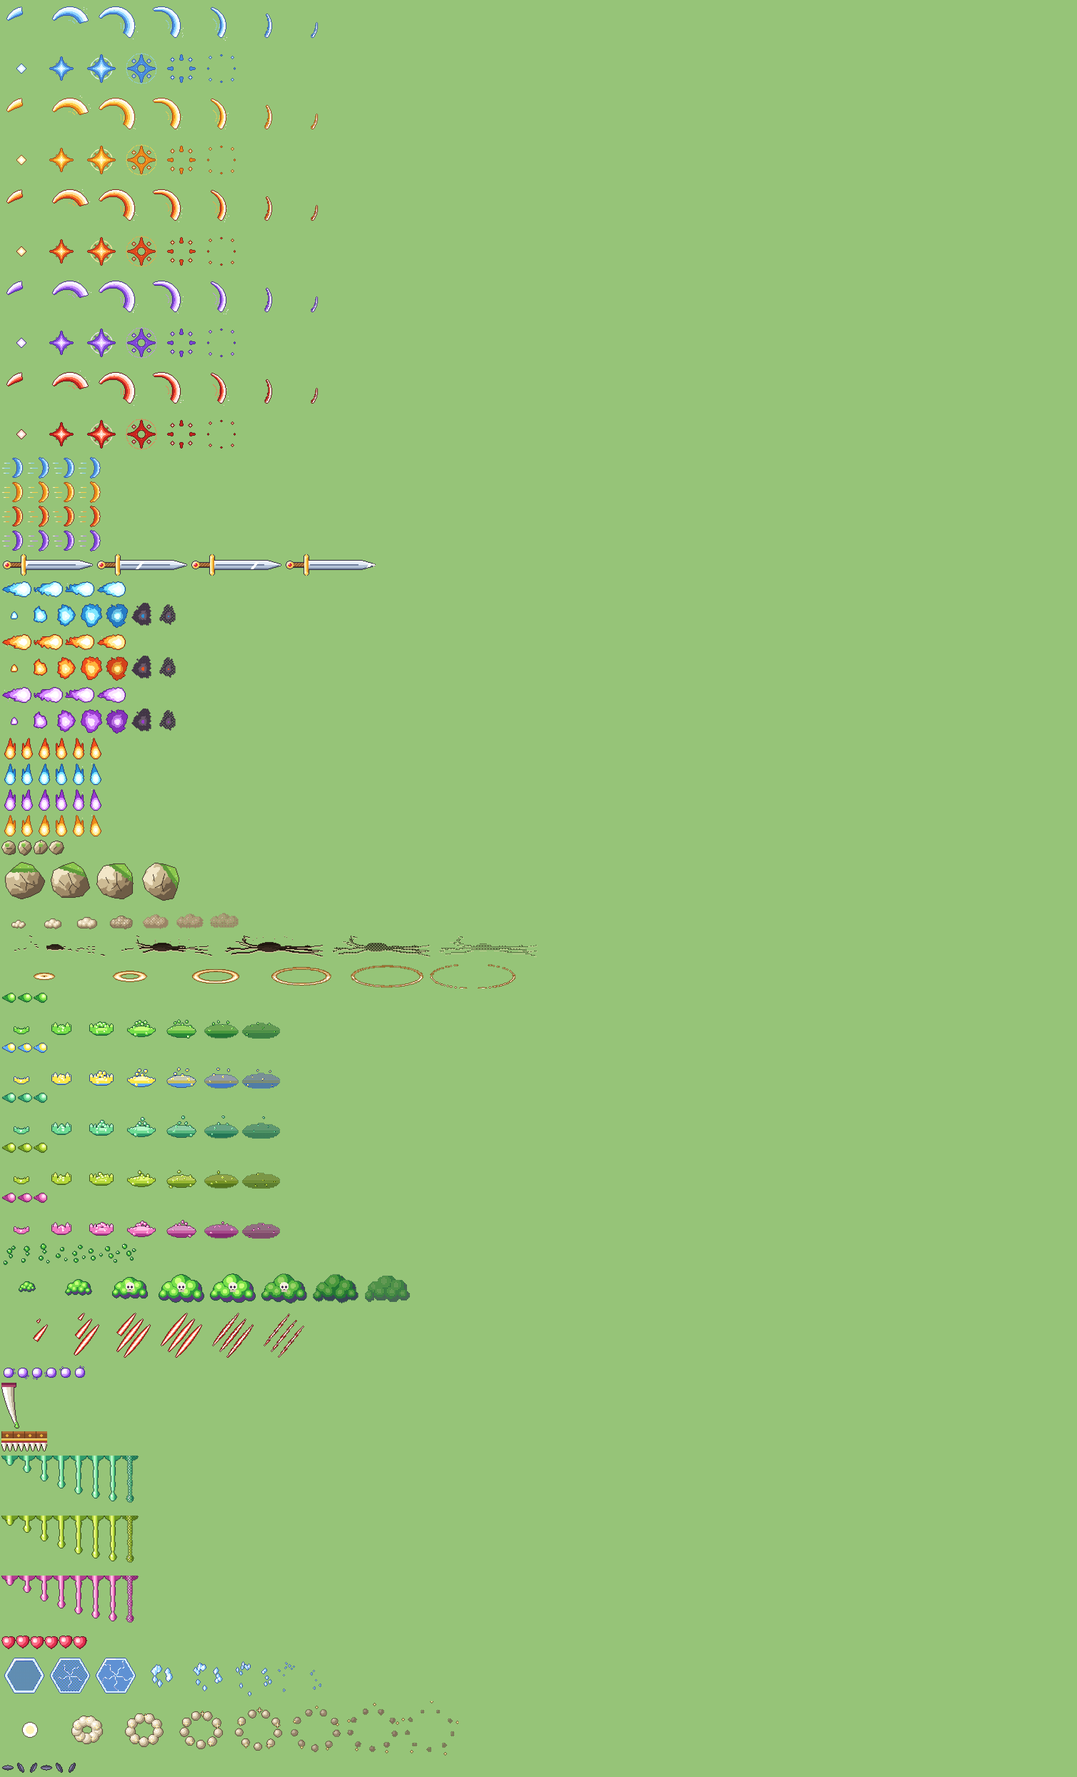
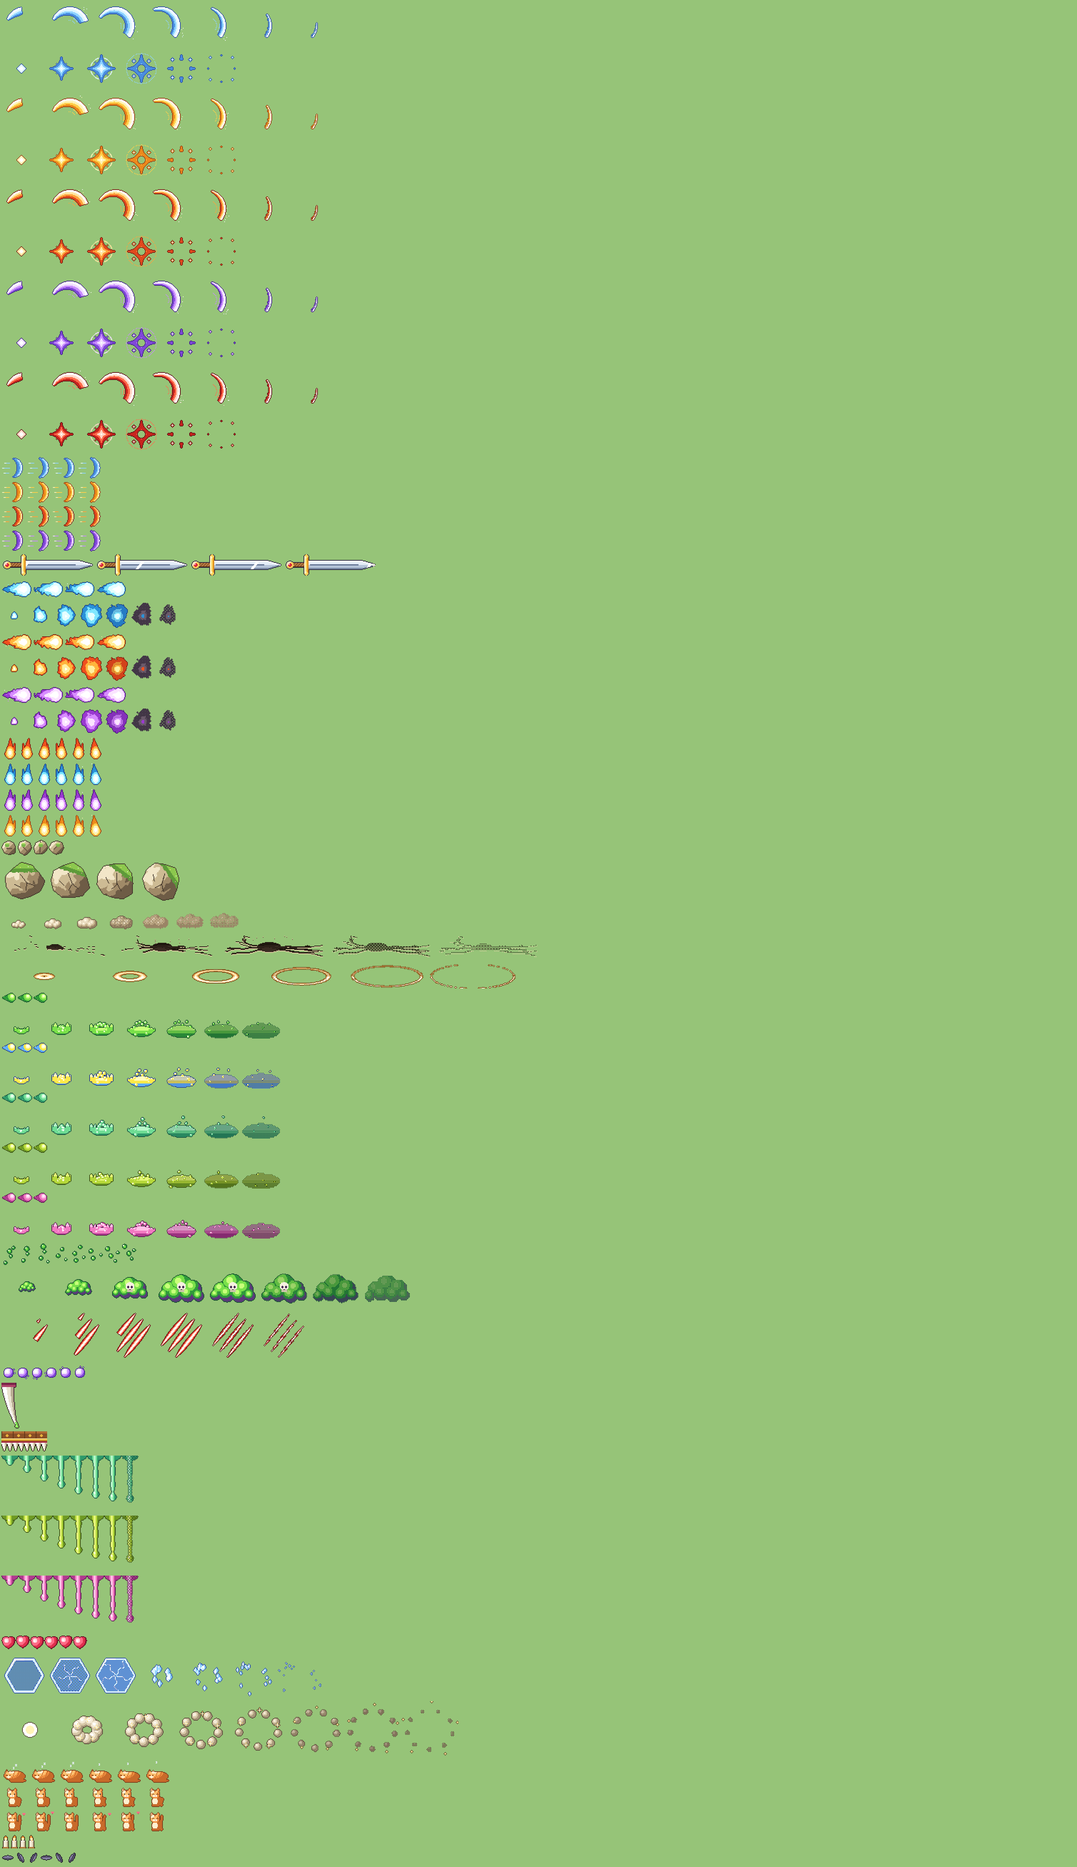
Biblioteca: gato que dorme, acorda e fica feliz com os acertos, e velas da sessão
Claude-Session: https://claude.ai/code/session_01Wy17hPtRMz9sgRLvNPhYVz

Changed region(s): [[0.0, 0.0, 0.4052, 0.9968], [0.2805, 0.2803, 0.3428, 0.3426]]

diff --git a/src/flashcards/efeitos/vfxIndice.ts b/src/flashcards/efeitos/vfxIndice.ts
@@ -3,4 +3,4 @@
  * Gerado por scripts/sprites/vfx.py: não edite à mão.
  */
 export interface MetaVfx { w: number; h: number; n: number; ms: number; ancora: [number, number]; loop: boolean }
-export const VFX: Record<string, MetaVfx> = {"corte-azul": {"w": 64, "h": 64, "n": 7, "ms": 45, "ancora": [32, 32], "loop": false}, "faisca-azul": {"w": 56, "h": 56, "n": 6, "ms": 50, "ancora": [28, 28], "loop": false}, "corte-ouro": {"w": 64, "h": 64, "n": 7, "ms": 45, "ancora": [32, 32], "loop": false}, "faisca-ouro": {"w": 56, "h": 56, "n": 6, "ms": 50, "ancora": [28, 28], "loop": false}, "corte-fogo": {"w": 64, "h": 64, "n": 7, "ms": 45, "ancora": [32, 32], "loop": false}, "faisca-fogo": {"w": 56, "h": 56, "n": 6, "ms": 50, "ancora": [28, 28], "loop": false}, "corte-arcano": {"w": 64, "h": 64, "n": 7, "ms": 45, "ancora": [32, 32], "loop": false}, "faisca-arcano": {"w": 56, "h": 56, "n": 6, "ms": 50, "ancora": [28, 28], "loop": false}, "corte-sangue": {"w": 64, "h": 64, "n": 7, "ms": 45, "ancora": [32, 32], "loop": false}, "faisca-sangue": {"w": 56, "h": 56, "n": 6, "ms": 50, "ancora": [28, 28], "loop": false}, "lamina-azul": {"w": 36, "h": 30, "n": 4, "ms": 60, "ancora": [24, 15], "loop": true}, "lamina-ouro": {"w": 36, "h": 30, "n": 4, "ms": 60, "ancora": [24, 15], "loop": true}, "lamina-fogo": {"w": 36, "h": 30, "n": 4, "ms": 60, "ancora": [24, 15], "loop": true}, "lamina-arcano": {"w": 36, "h": 30, "n": 4, "ms": 60, "ancora": [24, 15], "loop": true}, "espada": {"w": 132, "h": 30, "n": 4, "ms": 70, "ancora": [6, 15], "loop": false}, "bolafogo-fatuo": {"w": 44, "h": 30, "n": 4, "ms": 70, "ancora": [31, 15], "loop": true}, "labareda-fatuo": {"w": 36, "h": 36, "n": 7, "ms": 60, "ancora": [18, 18], "loop": false}, "bolafogo-escarlate": {"w": 44, "h": 30, "n": 4, "ms": 70, "ancora": [31, 15], "loop": true}, "labareda-escarlate": {"w": 36, "h": 36, "n": 7, "ms": 60, "ancora": [18, 18], "loop": false}, "bolafogo-ancestral": {"w": 44, "h": 30, "n": 4, "ms": 70, "ancora": [31, 15], "loop": true}, "labareda-ancestral": {"w": 36, "h": 36, "n": 7, "ms": 60, "ancora": [18, 18], "loop": false}, "chama-escarlate": {"w": 24, "h": 32, "n": 6, "ms": 90, "ancora": [12, 30], "loop": true}, "chama-fatuo": {"w": 24, "h": 32, "n": 6, "ms": 90, "ancora": [12, 30], "loop": true}, "chama-ancestral": {"w": 24, "h": 32, "n": 6, "ms": 90, "ancora": [12, 30], "loop": true}, "chama-ouro": {"w": 24, "h": 32, "n": 6, "ms": 90, "ancora": [12, 30], "loop": true}, "pedra": {"w": 22, "h": 22, "n": 4, "ms": 70, "ancora": [11, 11], "loop": true}, "pedregulho": {"w": 64, "h": 64, "n": 4, "ms": 90, "ancora": [32, 32], "loop": true}, "poeira": {"w": 48, "h": 32, "n": 7, "ms": 70, "ancora": [24, 30], "loop": false}, "rachadura": {"w": 150, "h": 40, "n": 5, "ms": 80, "ancora": [75, 20], "loop": false}, "choque": {"w": 120, "h": 34, "n": 6, "ms": 55, "ancora": [60, 17], "loop": false}, "gota-veneno": {"w": 22, "h": 18, "n": 3, "ms": 80, "ancora": [13, 9], "loop": true}, "respingo-veneno": {"w": 56, "h": 44, "n": 7, "ms": 60, "ancora": [28, 34], "loop": false}, "gota-eletrico": {"w": 22, "h": 18, "n": 3, "ms": 80, "ancora": [13, 9], "loop": true}, "respingo-eletrico": {"w": 56, "h": 44, "n": 7, "ms": 60, "ancora": [28, 34], "loop": false}, "gota-gosma": {"w": 22, "h": 18, "n": 3, "ms": 80, "ancora": [13, 9], "loop": true}, "respingo-gosma": {"w": 56, "h": 44, "n": 7, "ms": 60, "ancora": [28, 34], "loop": false}, "gota-acida": {"w": 22, "h": 18, "n": 3, "ms": 80, "ancora": [13, 9], "loop": true}, "respingo-acida": {"w": 56, "h": 44, "n": 7, "ms": 60, "ancora": [28, 34], "loop": false}, "gota-rainha": {"w": 22, "h": 18, "n": 3, "ms": 80, "ancora": [13, 9], "loop": true}, "respingo-rainha": {"w": 56, "h": 44, "n": 7, "ms": 60, "ancora": [28, 34], "loop": false}, "bolhas": {"w": 24, "h": 34, "n": 8, "ms": 110, "ancora": [12, 17], "loop": true}, "nuvem-veneno": {"w": 72, "h": 56, "n": 8, "ms": 80, "ancora": [36, 28], "loop": false}, "garras": {"w": 72, "h": 72, "n": 6, "ms": 45, "ancora": [36, 36], "loop": false}, "orbe": {"w": 20, "h": 20, "n": 6, "ms": 70, "ancora": [10, 10], "loop": true}, "presa": {"w": 30, "h": 64, "n": 1, "ms": 100, "ancora": [10, 0], "loop": false}, "mandibula": {"w": 64, "h": 30, "n": 1, "ms": 100, "ancora": [32, 0], "loop": false}, "escorre-gosma": {"w": 24, "h": 80, "n": 8, "ms": 90, "ancora": [12, 0], "loop": false}, "escorre-acida": {"w": 24, "h": 80, "n": 8, "ms": 90, "ancora": [12, 0], "loop": false}, "escorre-rainha": {"w": 24, "h": 80, "n": 8, "ms": 90, "ancora": [12, 0], "loop": false}, "coracao": {"w": 20, "h": 20, "n": 6, "ms": 90, "ancora": [10, 10], "loop": true}, "escudo": {"w": 64, "h": 64, "n": 7, "ms": 60, "ancora": [32, 32], "loop": false}, "puf": {"w": 80, "h": 80, "n": 8, "ms": 70, "ancora": [40, 40], "loop": false}, "pena": {"w": 18, "h": 18, "n": 6, "ms": 70, "ancora": [9, 9], "loop": true}}
+export const VFX: Record<string, MetaVfx> = {"corte-azul": {"w": 64, "h": 64, "n": 7, "ms": 45, "ancora": [32, 32], "loop": false}, "faisca-azul": {"w": 56, "h": 56, "n": 6, "ms": 50, "ancora": [28, 28], "loop": false}, "corte-ouro": {"w": 64, "h": 64, "n": 7, "ms": 45, "ancora": [32, 32], "loop": false}, "faisca-ouro": {"w": 56, "h": 56, "n": 6, "ms": 50, "ancora": [28, 28], "loop": false}, "corte-fogo": {"w": 64, "h": 64, "n": 7, "ms": 45, "ancora": [32, 32], "loop": false}, "faisca-fogo": {"w": 56, "h": 56, "n": 6, "ms": 50, "ancora": [28, 28], "loop": false}, "corte-arcano": {"w": 64, "h": 64, "n": 7, "ms": 45, "ancora": [32, 32], "loop": false}, "faisca-arcano": {"w": 56, "h": 56, "n": 6, "ms": 50, "ancora": [28, 28], "loop": false}, "corte-sangue": {"w": 64, "h": 64, "n": 7, "ms": 45, "ancora": [32, 32], "loop": false}, "faisca-sangue": {"w": 56, "h": 56, "n": 6, "ms": 50, "ancora": [28, 28], "loop": false}, "lamina-azul": {"w": 36, "h": 30, "n": 4, "ms": 60, "ancora": [24, 15], "loop": true}, "lamina-ouro": {"w": 36, "h": 30, "n": 4, "ms": 60, "ancora": [24, 15], "loop": true}, "lamina-fogo": {"w": 36, "h": 30, "n": 4, "ms": 60, "ancora": [24, 15], "loop": true}, "lamina-arcano": {"w": 36, "h": 30, "n": 4, "ms": 60, "ancora": [24, 15], "loop": true}, "espada": {"w": 132, "h": 30, "n": 4, "ms": 70, "ancora": [6, 15], "loop": false}, "bolafogo-fatuo": {"w": 44, "h": 30, "n": 4, "ms": 70, "ancora": [31, 15], "loop": true}, "labareda-fatuo": {"w": 36, "h": 36, "n": 7, "ms": 60, "ancora": [18, 18], "loop": false}, "bolafogo-escarlate": {"w": 44, "h": 30, "n": 4, "ms": 70, "ancora": [31, 15], "loop": true}, "labareda-escarlate": {"w": 36, "h": 36, "n": 7, "ms": 60, "ancora": [18, 18], "loop": false}, "bolafogo-ancestral": {"w": 44, "h": 30, "n": 4, "ms": 70, "ancora": [31, 15], "loop": true}, "labareda-ancestral": {"w": 36, "h": 36, "n": 7, "ms": 60, "ancora": [18, 18], "loop": false}, "chama-escarlate": {"w": 24, "h": 32, "n": 6, "ms": 90, "ancora": [12, 30], "loop": true}, "chama-fatuo": {"w": 24, "h": 32, "n": 6, "ms": 90, "ancora": [12, 30], "loop": true}, "chama-ancestral": {"w": 24, "h": 32, "n": 6, "ms": 90, "ancora": [12, 30], "loop": true}, "chama-ouro": {"w": 24, "h": 32, "n": 6, "ms": 90, "ancora": [12, 30], "loop": true}, "pedra": {"w": 22, "h": 22, "n": 4, "ms": 70, "ancora": [11, 11], "loop": true}, "pedregulho": {"w": 64, "h": 64, "n": 4, "ms": 90, "ancora": [32, 32], "loop": true}, "poeira": {"w": 48, "h": 32, "n": 7, "ms": 70, "ancora": [24, 30], "loop": false}, "rachadura": {"w": 150, "h": 40, "n": 5, "ms": 80, "ancora": [75, 20], "loop": false}, "choque": {"w": 120, "h": 34, "n": 6, "ms": 55, "ancora": [60, 17], "loop": false}, "gota-veneno": {"w": 22, "h": 18, "n": 3, "ms": 80, "ancora": [13, 9], "loop": true}, "respingo-veneno": {"w": 56, "h": 44, "n": 7, "ms": 60, "ancora": [28, 34], "loop": false}, "gota-eletrico": {"w": 22, "h": 18, "n": 3, "ms": 80, "ancora": [13, 9], "loop": true}, "respingo-eletrico": {"w": 56, "h": 44, "n": 7, "ms": 60, "ancora": [28, 34], "loop": false}, "gota-gosma": {"w": 22, "h": 18, "n": 3, "ms": 80, "ancora": [13, 9], "loop": true}, "respingo-gosma": {"w": 56, "h": 44, "n": 7, "ms": 60, "ancora": [28, 34], "loop": false}, "gota-acida": {"w": 22, "h": 18, "n": 3, "ms": 80, "ancora": [13, 9], "loop": true}, "respingo-acida": {"w": 56, "h": 44, "n": 7, "ms": 60, "ancora": [28, 34], "loop": false}, "gota-rainha": {"w": 22, "h": 18, "n": 3, "ms": 80, "ancora": [13, 9], "loop": true}, "respingo-rainha": {"w": 56, "h": 44, "n": 7, "ms": 60, "ancora": [28, 34], "loop": false}, "bolhas": {"w": 24, "h": 34, "n": 8, "ms": 110, "ancora": [12, 17], "loop": true}, "nuvem-veneno": {"w": 72, "h": 56, "n": 8, "ms": 80, "ancora": [36, 28], "loop": false}, "garras": {"w": 72, "h": 72, "n": 6, "ms": 45, "ancora": [36, 36], "loop": false}, "orbe": {"w": 20, "h": 20, "n": 6, "ms": 70, "ancora": [10, 10], "loop": true}, "presa": {"w": 30, "h": 64, "n": 1, "ms": 100, "ancora": [10, 0], "loop": false}, "mandibula": {"w": 64, "h": 30, "n": 1, "ms": 100, "ancora": [32, 0], "loop": false}, "escorre-gosma": {"w": 24, "h": 80, "n": 8, "ms": 90, "ancora": [12, 0], "loop": false}, "escorre-acida": {"w": 24, "h": 80, "n": 8, "ms": 90, "ancora": [12, 0], "loop": false}, "escorre-rainha": {"w": 24, "h": 80, "n": 8, "ms": 90, "ancora": [12, 0], "loop": false}, "coracao": {"w": 20, "h": 20, "n": 6, "ms": 90, "ancora": [10, 10], "loop": true}, "escudo": {"w": 64, "h": 64, "n": 7, "ms": 60, "ancora": [32, 32], "loop": false}, "puf": {"w": 80, "h": 80, "n": 8, "ms": 70, "ancora": [40, 40], "loop": false}, "gato-dorme": {"w": 40, "h": 30, "n": 6, "ms": 260, "ancora": [20, 15], "loop": true}, "gato-acorda": {"w": 40, "h": 30, "n": 6, "ms": 160, "ancora": [20, 15], "loop": true}, "gato-feliz": {"w": 40, "h": 30, "n": 6, "ms": 120, "ancora": [20, 15], "loop": true}, "vela": {"w": 12, "h": 20, "n": 4, "ms": 120, "ancora": [6, 10], "loop": true}, "pena": {"w": 18, "h": 18, "n": 6, "ms": 70, "ancora": [9, 9], "loop": true}}

diff --git a/src/flashcards/componentes/Estudo.tsx b/src/flashcards/componentes/Estudo.tsx
@@ -13,6 +13,7 @@ import { Cartao, familiasDe } from './Cartao'
 import { Sprite } from './Sprite'
 import { HUMOR, NomeEmChamas, SERIE_VAZIA, avancarSerie, humorDe, somDoHumor, type Humor } from './ClimaEstudo'
 import { ContextoConta } from '../../conta/ContextoConta'
+import { recurso } from '../../config'
 
 type Avaliacao = 'errei' | 'hesitei' | 'sabia'
 
@@ -297,6 +298,7 @@ function Sessao({ titulo, ids, aoAmpliar, reduzido, aoTerminar, aoHumor }: { tit
     <div className="fc-estudo">
       <aside className="fc-estudo__painel" aria-label="Progresso do estudo">
         <button type="button" className="fc-botao-pequeno fc-estudo__voltar" onClick={aoTerminar}>← Biblioteca</button>
+        <GatoDaBiblioteca estado={humor.tipo === 'gloria' || (humor.tipo === 'chama' && humor.nivel >= 2) ? 'feliz' : humor.tipo === 'chama' || humor.tipo === 'arcoiris' || serie.acertos >= 1 ? 'acorda' : 'dorme'} />
         <NomeEmChamas nome={nomeMostrado} humor={humor} />
         <p className="fc-estudo__titulo">{titulo}</p>
         {humor.tipo !== 'calmo' && (
@@ -312,6 +314,10 @@ function Sessao({ titulo, ids, aoAmpliar, reduzido, aoTerminar, aoHumor }: { tit
           <div className="hesitei"><dt>Hesitei</dt><dd>{feitos.hesitei}</dd></div>
           <div className="errei"><dt>Errei</dt><dd>{feitos.errei}</dd></div>
         </dl>
+        <div className="fc-velas" aria-label={`${feitos.sabia} velas acesas: uma por "Sabia" nesta sessão`} title="Uma vela acende a cada &quot;Sabia&quot; nesta sessão">
+          {Array.from({ length: 10 }, (_, i) => <i key={i} className={i < feitos.sabia % 10 || (feitos.sabia >= 10 && feitos.sabia % 10 === 0) ? 'acesa' : ''} style={{ backgroundImage: `url(${recurso('flashcards/vfx/vela.png')})`, animationDelay: `${-i * 110}ms` }} />)}
+          {feitos.sabia >= 10 && <b>×{Math.floor(feitos.sabia / 10)}</b>}
+        </div>
         <button type="button" className="fc-interruptor" role="switch" aria-checked={comAlternativas}
           onClick={() => { const v = !comAlternativas; definirComAlternativas(v); gravar(CHAVE_ALTERNATIVAS, v); tocar('selecao') }}>
           <span className="fc-interruptor__trilho" aria-hidden="true"><i /></span>
@@ -388,4 +394,9 @@ function Sessao({ titulo, ids, aoAmpliar, reduzido, aoTerminar, aoHumor }: { tit
       </div>
     </div>
   )
+}
+
+/** O gato da Biblioteca: dorme, acorda quando você acerta e fica feliz no combo (só enfeite). */
+function GatoDaBiblioteca({ estado }: { estado: 'dorme' | 'acorda' | 'feliz' }) {
+  return <span className={`fc-gato fc-gato--${estado}`} aria-hidden="true" style={{ backgroundImage: `url(${recurso(`flashcards/vfx/gato-${estado}.png`)})` }} />
 }

diff --git a/src/estilos/paginas/Flashcards.css b/src/estilos/paginas/Flashcards.css
@@ -2245,3 +2245,18 @@ body.fc-modal-aberto .aviso-cookies, body.fc-modal-aberto .aviso-site, body.fc-m
 .fc-ator--grudado .fc-ator__corpo { filter: drop-shadow(0 3px 0 rgba(110, 220, 150, .55)) drop-shadow(0 0 4px rgba(110, 220, 150, .5)); }
 .fc-info--veneno { color: #c8ff9a; box-shadow: inset 0 0 0 1px rgba(122, 224, 74, .6); }
 .fc-info--grude { color: #b8f7c8; box-shadow: inset 0 0 0 1px rgba(111, 220, 148, .6); }
+
+/* ---------- Gato da Biblioteca e velas da sessão ---------- */
+.fc-gato { position: absolute; z-index: 3; left: 18px; top: calc(100% + 2px); width: 120px; height: 90px; pointer-events: none; background-repeat: no-repeat;
+  background-size: 720px 90px; image-rendering: pixelated; animation: fc-gato-anda 1.56s steps(6) infinite; }
+.fc-gato--acorda { animation-duration: .96s; }
+.fc-gato--feliz { animation-duration: .72s; }
+@keyframes fc-gato-anda { to { background-position: -720px 0; } }
+.fc-velas { display: flex; flex-wrap: wrap; align-items: flex-end; gap: 1px; min-height: 30px; }
+.fc-velas i { width: 12px; height: 20px; background-repeat: no-repeat; background-size: 48px 20px; image-rendering: pixelated; transform: scale(1.3); transform-origin: 50% 100%;
+  filter: grayscale(1) brightness(.55); background-position: 0 0; }
+.fc-velas i.acesa { filter: none; animation: fc-vela .48s steps(4) infinite; }
+@keyframes fc-vela { to { background-position: -48px 0; } }
+.fc-velas b { margin-left: 4px; font: 700 12px var(--fc-ui); color: #ffe6a8; }
+@media (max-width: 640px) and (orientation: portrait), (max-height: 500px) and (orientation: landscape) { .fc-gato { display: none; } .fc-velas { display: none; } }
+@media (prefers-reduced-motion: reduce) { .fc-gato, .fc-velas i.acesa { animation: none; } }

diff --git a/scripts/sprites/vfx.py b/scripts/sprites/vfx.py
@@ -926,6 +926,99 @@ def puf(n=8, W=80):
     return quadros
 
 
+def gato(estado, n, W=40, H=30):
+    """Gato laranja da Biblioteca (rajado, no estilo dos bichinhos do Stardew).
+    dorme: enrolado, respirando, com Zzz · acorda: sentado, pisca e mexe o rabo ·
+    feliz: rabo alto, olhos fechados de contente e coração."""
+    pel = ['#fff0d0', '#ffc070', '#f09040', '#c86a2a', '#7a3a1a']
+    quadros = []
+    for k in range(n):
+        q = Q(W, H)
+        x, y = q.x, q.y
+        if estado == 'dorme':
+            resp = 0.6 * math.sin(k / n * 2 * math.pi)
+            corpo = np.hypot((x - 20) / 13, (y - 21 + resp * 0.5) / (7 + resp)) <= 1
+            cab = np.hypot((x - 10) / 6, (y - 20) / 5.2) <= 1
+            orelha = ((y < 16) & (y > 12) & (np.abs(x - 7 - (16 - y) * 0.2) < (y - 12) * 0.6)) | ((y < 16) & (y > 12.5) & (np.abs(x - 12.5 + (16 - y) * 0.1) < (y - 12.5) * 0.6))
+            rabo = (np.hypot((x - 22) / 12, (y - 27) / 2.2) <= 1) & (x > 12)
+            m = corpo | cab | orelha | rabo
+            luz = np.clip(np.hypot((x - 14) / 16, (y - 14) / 12), 0, 0.999)
+            pinta_rampa(q, m, luz * 0.9, pel[:4])
+            listra = m & ~cab & (((x + y * 0.4).astype(int) % 6) < 1) & (y < 24)
+            q.pinta(listra, pel[3])
+            q.pinta(np.hypot((x - 10) / 3.5, (y - 22) / 1.6) <= 1, pel[0])     # focinho claro
+            q.pinta((np.abs(y - 19.5) < 0.5) & ((np.abs(x - 7.5) < 1.2) | (np.abs(x - 12) < 1.2)), pel[4])  # olhos fechados
+            q.contorno(pel[4])
+            # Zzz subindo
+            zy = 10 - (k % n) * 1.5
+            for i, (zx, zs) in enumerate(((16, 1), (19, 2))):
+                yy = int(zy - i * 4)
+                if 0 <= yy - 2 and yy + 1 < H:
+                    for (dx, dy) in ((0, 0), (1, 0), (zs, 0), (1, 1), (0, 2), (1, 2), (zs, 2)):
+                        if zx + dx < W:
+                            q.a[yy + dy - 2, zx + dx] = cor('#e8f0ff')
+        else:
+            feliz = estado == 'feliz'
+            corpo = np.hypot((x - 18) / 7.5, (y - 22) / 7) <= 1
+            peito = np.hypot((x - 15) / 4, (y - 22) / 4.5) <= 1
+            cab = np.hypot((x - 15) / 6.5, (y - 12) / 5.5) <= 1
+            orelha = ((y < 8.5) & (y > 3.5) & (np.abs(x - 11 + (8.5 - y) * 0.15) < (y - 3.5) * 0.55)) | ((y < 8.5) & (y > 3.5) & (np.abs(x - 19 - (8.5 - y) * 0.15) < (y - 3.5) * 0.55))
+            fase = k / n * 2 * math.pi
+            alto = 1.0 if feliz else 0.4
+            tx = 25 + 3 * math.sin(fase) * (1 if feliz else 0.6)
+            rabo = np.zeros_like(corpo)
+            for i in range(14):
+                t = i / 13
+                px_ = 24 + (tx - 24) * t + 2 * math.sin(t * 3 + fase) * t
+                py_ = 27 - t * 16 * alto - 2 * t
+                rabo |= np.hypot(x - px_, y - py_) <= 1.6
+            pata = ((np.abs(x - 13) < 1.8) | (np.abs(x - 18) < 1.8)) & (y > 26) & (y < 29.5)
+            m = corpo | cab | orelha | rabo | pata
+            luz = np.clip(np.hypot((x - 11) / 14, (y - 6) / 18), 0, 0.999)
+            pinta_rampa(q, m, luz * 0.9, pel[:4])
+            q.pinta(peito | (np.hypot((x - 15) / 3.4, (y - 14.5) / 1.8) <= 1), pel[0])
+            q.pinta(m & ~peito & ~cab & (((x * 0.8 + y * 0.3).astype(int) % 5) < 1), pel[3])
+            q.pinta(cab & (np.abs(x - 15) < 0.6) & (y < 9.5) & (y > 7), pel[3])
+            q.pinta(orelha & (np.abs(x - 15) > 5.5) & (y > 6), '#ffb0b8')
+            piscou = (not feliz) and k == n - 1
+            if feliz or piscou:
+                # olhos fechados de contente: ^ ^
+                for ex in (12, 18):
+                    for (dx, dy) in ((-1, 1), (0, 0), (1, 1)):
+                        q.a[11 + dy, ex + dx] = cor(pel[4])
+            else:
+                for ex in (12, 18):
+                    q.pinta((np.abs(x - ex - 0.5) < 1) & (np.abs(y - 11.5) < 1.5), '#2a3a2a')
+                    q.a[10, ex] = cor('#ffffff')
+            q.a[14, 15] = cor('#e06a7a')
+            q.contorno(pel[4])
+            if feliz and k % 3 != 2:
+                hy = int(4 - (k % 3) * 1.5)
+                for (dx, dy) in ((0, 0), (2, 0), (-1, 1), (0, 1), (1, 1), (2, 1), (3, 1), (0, 2), (1, 2), (2, 2), (1, 3)):
+                    if 0 <= hy + dy < H:
+                        q.a[hy + dy, 30 + dx] = cor('#ff6a86' if dy < 3 else '#c8304e')
+        quadros.append(q.a)
+    return quadros
+
+
+def vela(n=4, W=12, H=20):
+    """Vela acesa (as velas da sessão que se acendem a cada acerto)."""
+    quadros = []
+    for k in range(n):
+        q = Q(W, H)
+        x, y = q.x, q.y
+        cera = (np.abs(x - 6) < 2.8) & (y > 9) & (y < 19)
+        q.pinta(cera, '#f4ead6'); q.pinta(cera & (x > 7), '#d8c8a8'); q.pinta(cera & (y < 10.5), '#ffffff')
+        q.pinta((np.abs(x - 6) < 4.2) & (y >= 18), '#b07a3a')
+        dx = math.sin(k / n * 2 * math.pi) * 0.8
+        chama = np.hypot((x - 6 - dx * (8 - y) / 6) / 2, (y - 6) / 3.6) <= 1
+        q.pinta(chama, '#ffa23c'); q.pinta(chama & (np.hypot(x - 6, y - 7) < 1.6), '#fff4b8')
+        q.pinta((np.abs(x - 6) < 0.5) & (y > 8) & (y < 10), '#3a2a1a')
+        q.contorno('#3a2418')
+        quadros.append(q.a)
+    return quadros
+
+
 # ================================================================== registro
 
 def efeitos():
@@ -964,6 +1057,10 @@ def efeitos():
     add('coracao', coracao(), 90, loop=True)
     add('escudo', escudo_quebra(), 60)
     add('puf', puf(), 70)
+    add('gato-dorme', gato('dorme', 6), 260, loop=True)
+    add('gato-acorda', gato('acorda', 6), 160, loop=True)
+    add('gato-feliz', gato('feliz', 6), 120, loop=True)
+    add('vela', vela(), 120, loop=True)
     add('pena', pena(), 70, loop=True)
     return E
 

diff --git a/docs/PLANO-DE-IDEIAS.md b/docs/PLANO-DE-IDEIAS.md
@@ -60,8 +60,8 @@ Pedido do Tales em 14/10: mudar o humor da fase conforme a pessoa acerta ou erra
 29. [x] **Tempestade:** 5 ou mais erros seguidos escurecem a tela, trazem relâmpagos e trovão. Mensagem calma: "leia o verso sem pressa".
 30. [x] **Névoa da dúvida:** 3 "Hesitei" seguidos, ou mais de 30 s sem virar o flashcard.
 31. [x] **Arco-íris:** o primeiro acerto depois da chuva.
-32. [ ] Velas da biblioteca que acendem uma a uma a cada acerto da sessão.
-33. [ ] Gato da biblioteca (pixel art) que dorme, acorda no combo e se espreguiça na glória.
+32. [x] Velas da sessão: uma acende a cada "Sabia" (10 por fileira, com contador ×N).
+33. [x] Gato da Biblioteca em pixel art: dorme com Zzz, acorda quando você acerta e fica feliz (rabo em pé e coração) com o fogo azul e na glória.
 34. [ ] Livros que voam para a estante a cada flashcard dominado.
 35. [ ] Página de "diário da sessão" no fim: clima de cada trecho, melhor sequência, área mais forte.
 36. [ ] Selos colecionáveis da Biblioteca: primeira glória, 100 flashcards na semana, sem tempestade.
@@ -149,3 +149,4 @@ Pedido do Tales em 14/10: mudar o humor da fase conforme a pessoa acerta ou erra
 - **14/10/2026:** PR #228 mesclado. Depois: escudo em pixel art (o golpe do vilão bate na bolha e ela se estilhaça), corações na cura, "puf" de vitória e lâmina de ouro a partir do estágio 4 (ideias 12 a 15).
 - **14/10/2026:** Em chamas (ideia 20). Os três dragões têm `queima`; em `regras.ts` ficam `QUEIMADURA`, `Partida.queimadura` e os eventos `chamuscado`, `arde` e `apagou`. Na tela: chamas no pé do herói e selo laranja.
 - **14/10/2026:** Grude e Tremor (ideias 21 e 22), com testes no motor, mais as etiquetas de superpoder na placa do vilão (ideia 25).
+- **14/10/2026:** Gato da Biblioteca e velas da sessão (ideias 32 e 33), pintados em `vfx.py` (`gato-*` e `vela`).
